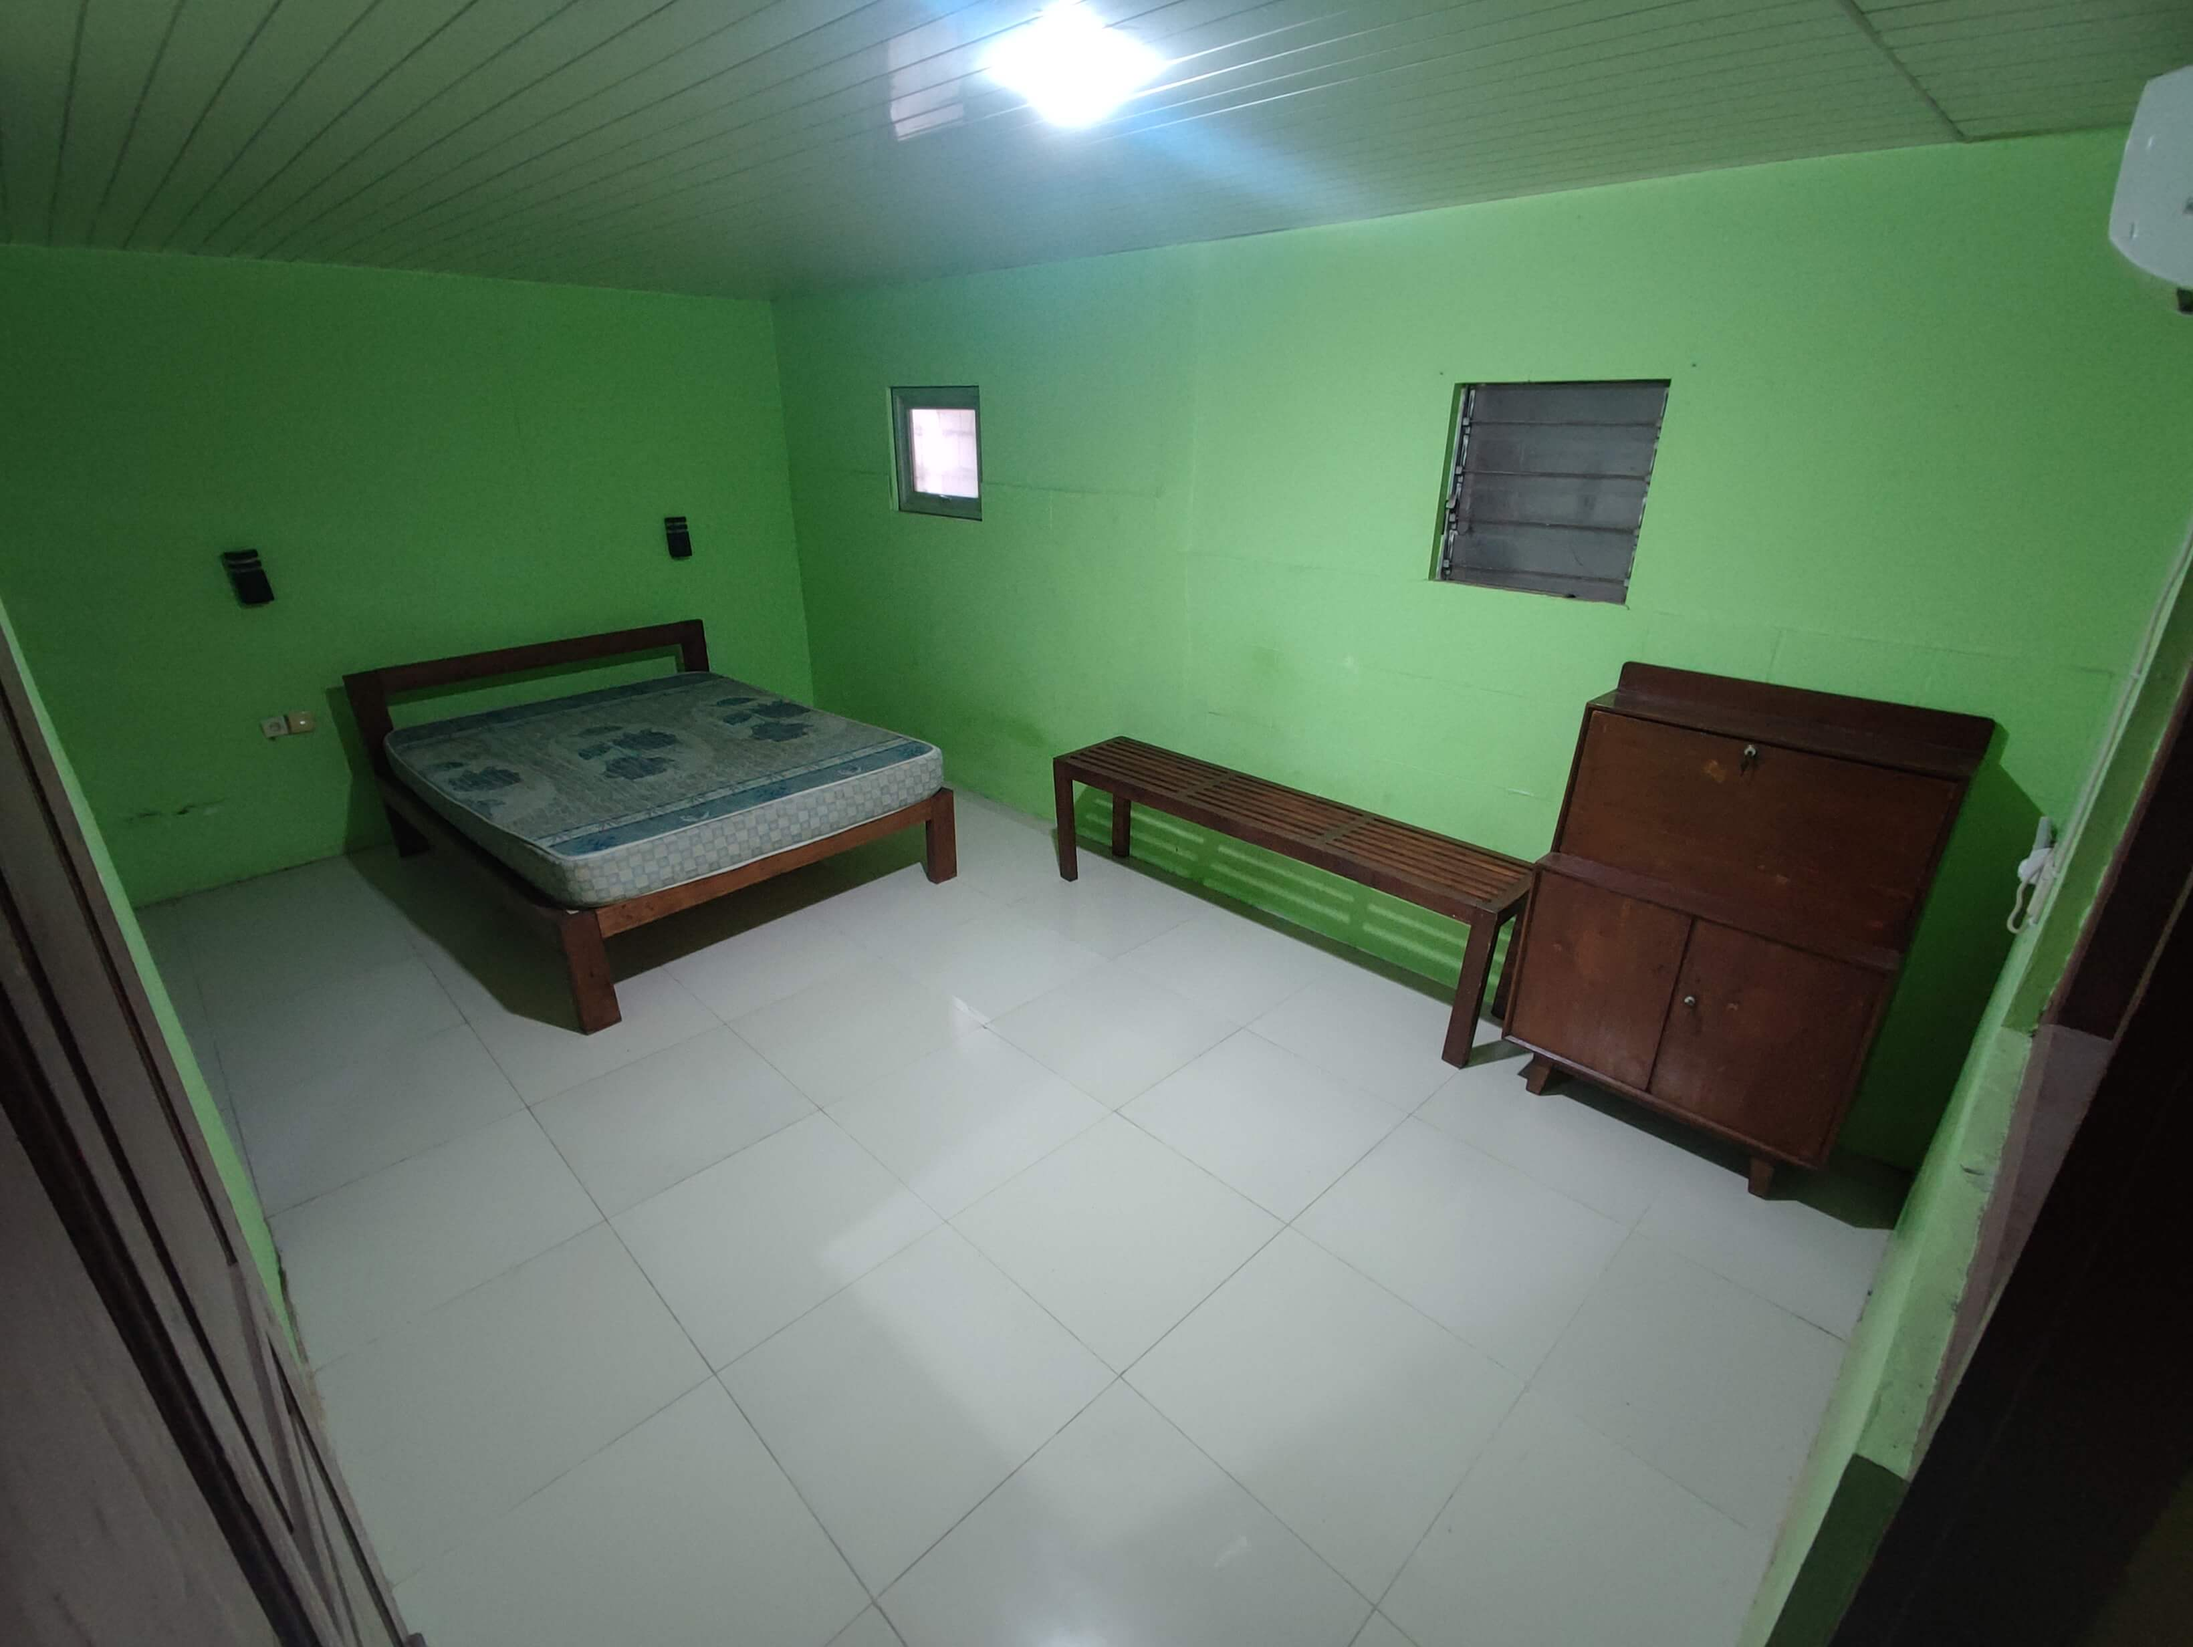
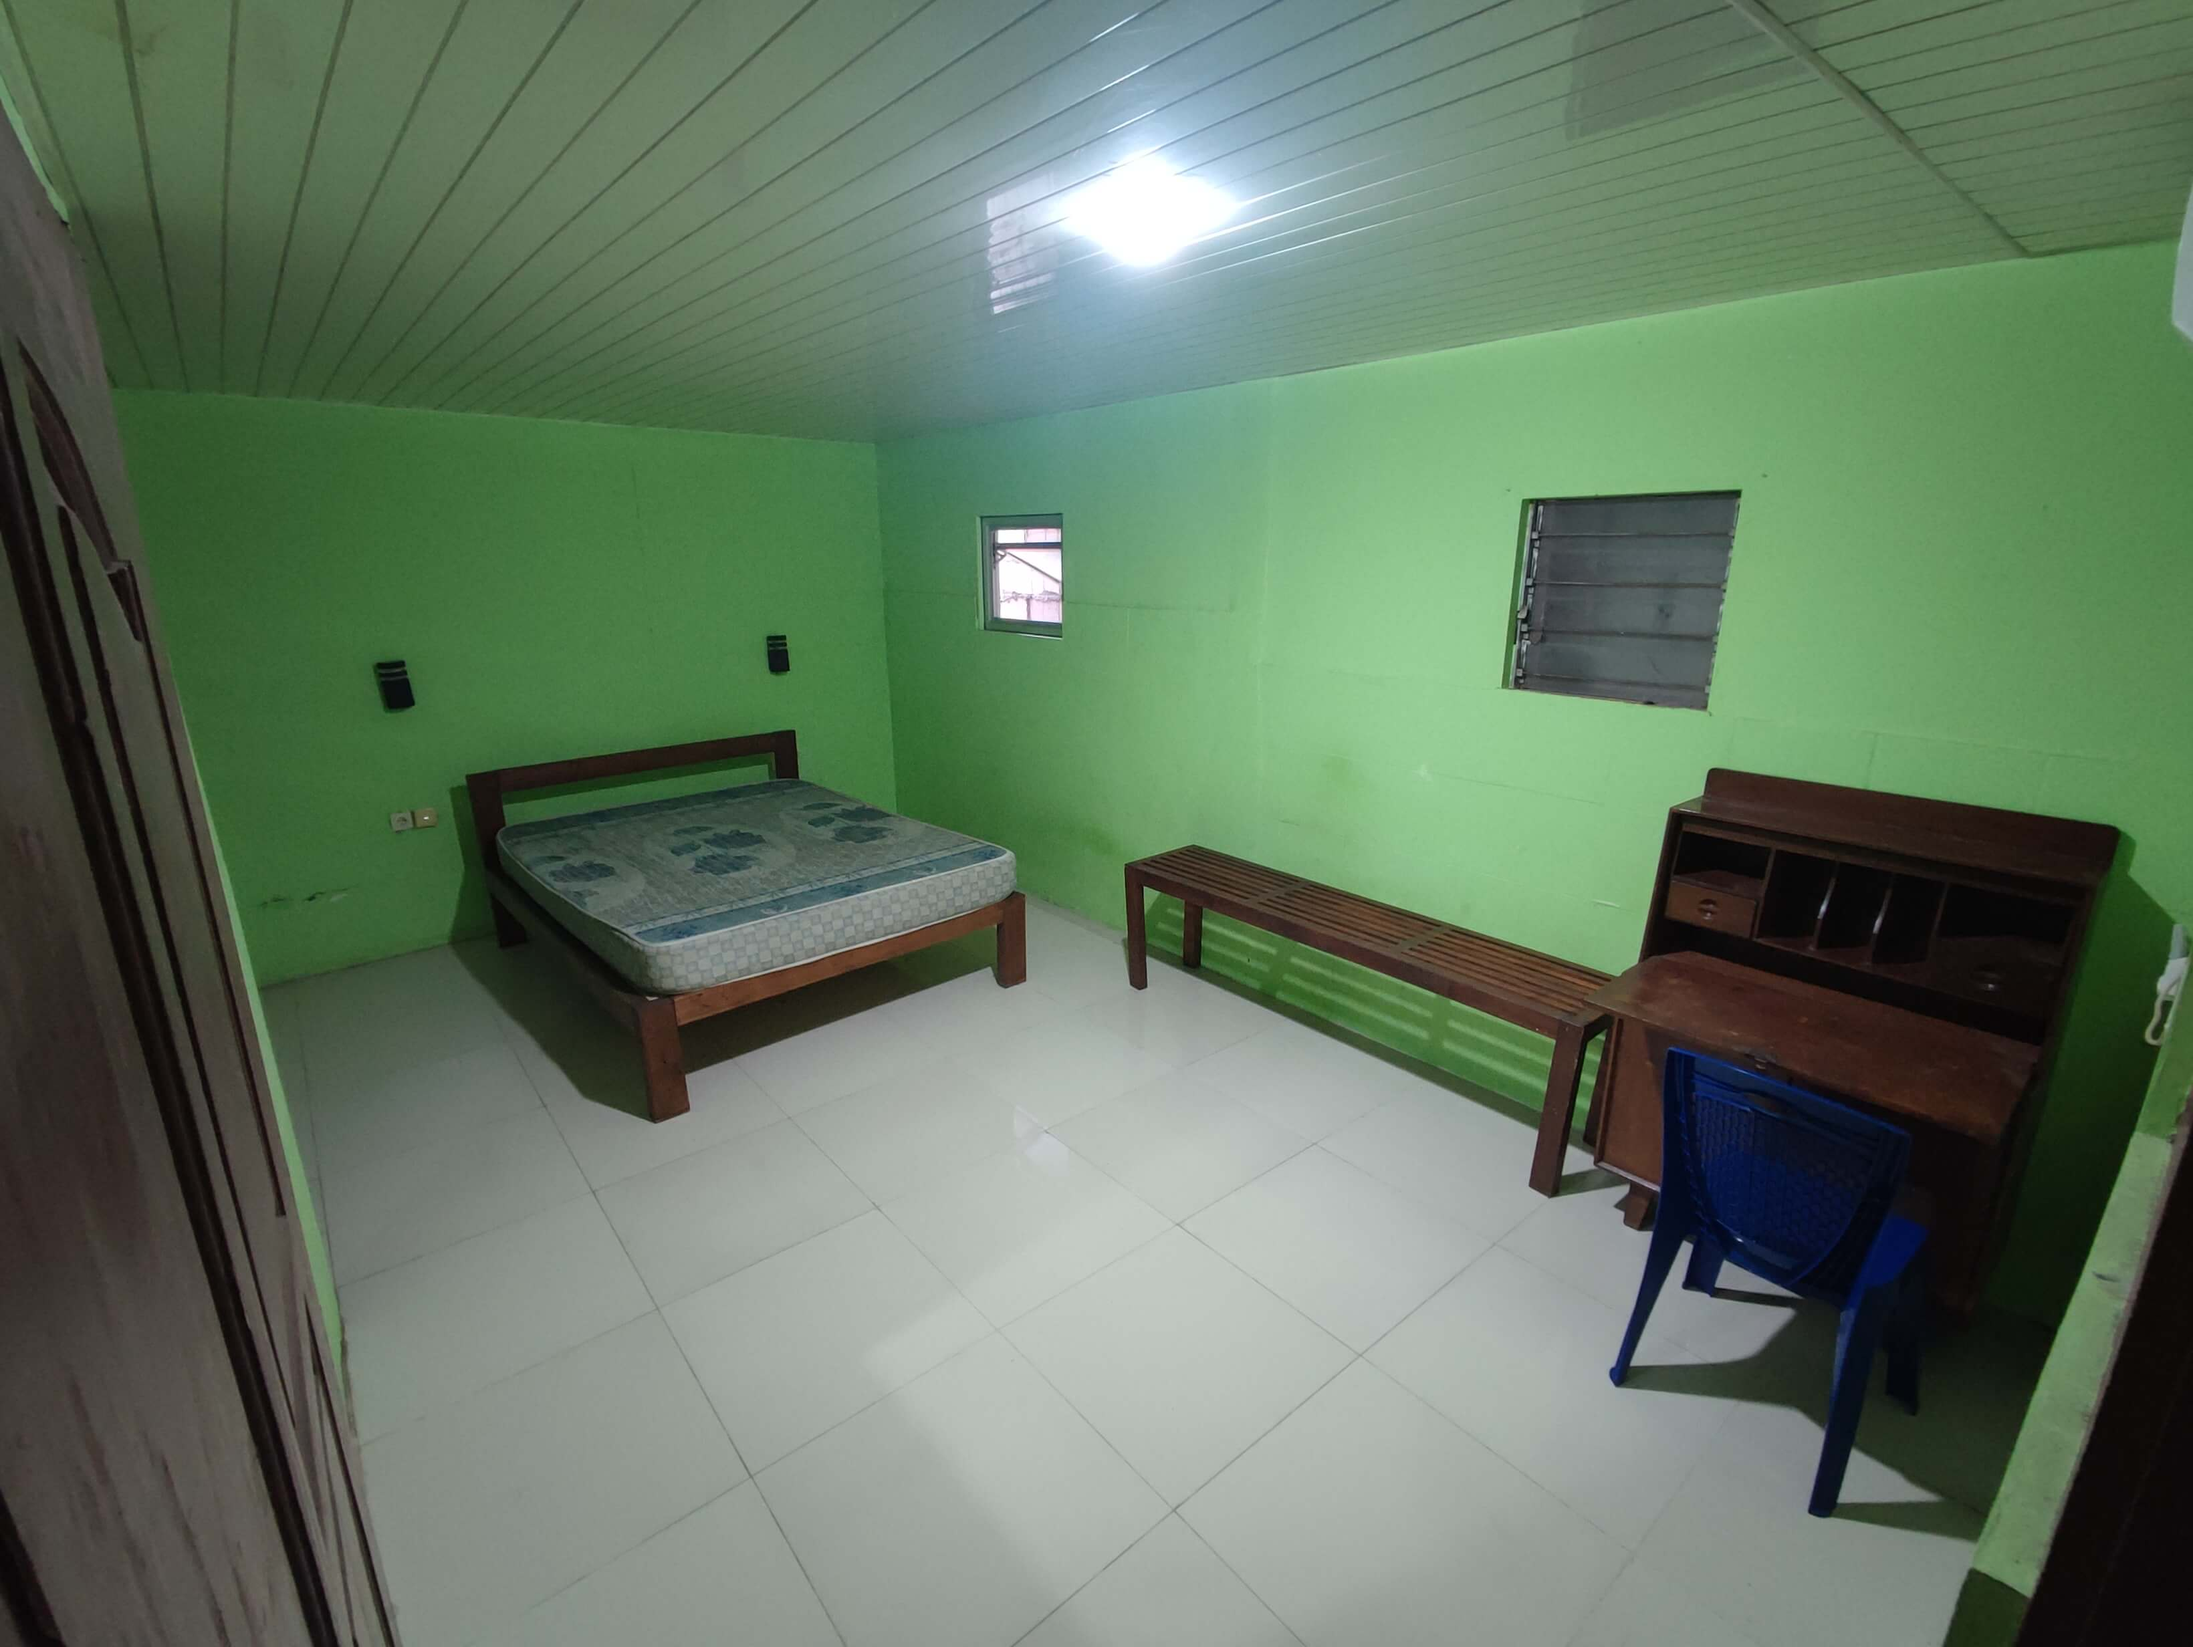
update AC 1, AC 2

diff --git a/AC/3.html b/AC/3.html
@@ -1,0 +1,49 @@
+<!DOCTYPE html>
+<html lang="en">
+
+<head>
+    <title>Kamar AC 3</title>
+    <meta charset="utf-8">
+    <meta name="viewport" content="width=device-width, initial-scale=1">
+    <link rel="stylesheet" type="text/css" href="../css/style.css">
+    <link rel="stylesheet" href="https://cdnjs.cloudflare.com/ajax/libs/font-awesome/5.15.4/css/all.min.css">
+    <meta property="og:title" content="Kamar AC 3">
+    <meta property="og:description" content="Fasilitas: WiFi, Kamar Mandi Dalam, AC 0,5 PK, Listrik Token 1300VA, Kasur, Meja, Kursi">
+    <meta property="og:image" content="https://koskepuh.category.id/AC/assets/3_exit.jpg">
+    <meta property="og:image" content="https://koskepuh.category.id/AC/assets/3_back.jpg">
+    <meta property="og:image" content="https://koskepuh.category.id/AC/assets/3_bathroom.jpg">
+    <meta property="og:image" content="https://koskepuh.category.id/AC/assets/3_entry.jpg">
+    <meta property="og:url" content="https://koskepuh.category.id/">
+    <meta property="og:type" content="website">
+</head>
+
+<body>
+    <h2>Kos Putra Kepuh 936</h2>
+    <h3>Kamar AC 3</h3>
+    <p>
+        Fasilitas :
+        <ul>
+            <li>Kamar Mandi Dalam</li>
+            <li>AC 0,5 PK</li>
+            <li>Listrik Token 1300VA</li>
+            <li>Kasur Busa Ukuran 120x200cm</li>
+            <li>Meja Kaca Besar</li>
+            <li>Kursi</li>
+            <li>Meja Kaca Pendek</li>
+        </ul>
+        Ukuran Kamar : ± 2,5 x 9 meter
+        <br><br>
+        Terakhir diperbarui : 20 November 2023
+    </p>
+    <img src="./assets/3_entry.jpg" width="100%" height="auto" max-width="800px">
+    <img src="./assets/3_exit.jpg" width="100%" height="auto" max-width="800px">
+    <img src="./assets/3_back.jpg" width="100%" height="auto" max-width="800px">
+    <img src="./assets/3_bathroom.jpg" width="100%" height="auto" max-width="800px">
+    <div class="whatsapp-float">
+        <a href="https://wa.me/6285173374180?text=Apakah%20Kamar%20AC%203%20masih%20kosong%3F" target="_blank">
+            <i class="fab fa-whatsapp"></i>
+        </a>
+    </div>
+</body>
+
+</html>

diff --git a/AC/2.html b/AC/2.html
@@ -8,10 +8,10 @@
     <link rel="stylesheet" type="text/css" href="../css/style.css">
     <link rel="stylesheet" href="https://cdnjs.cloudflare.com/ajax/libs/font-awesome/5.15.4/css/all.min.css">
     <meta property="og:title" content="Kamar AC 2">
-    <meta property="og:description" content="Fasilitas: WiFi, Kamar Mandi Dalam, AC 0,5 PK, Listrik Token 1300VA, Kasur, Meja">
-    <meta property="og:image" content="https://koskepuh.category.id/AC/assets/2_entry.jpg">
+    <meta property="og:description" content="Fasilitas: WiFi, Kamar Mandi Dalam, AC 0,5 PK, Listrik Token 1300VA, Kasur, Meja, Kursi">
     <meta property="og:image" content="https://koskepuh.category.id/AC/assets/2_bed.jpg">
     <meta property="og:image" content="https://koskepuh.category.id/AC/assets/2_bathroom.jpg">
+    <meta property="og:image" content="https://koskepuh.category.id/AC/assets/2_entry.jpg">
     <meta property="og:url" content="https://koskepuh.category.id/">
     <meta property="og:type" content="website">
 </head>
@@ -28,10 +28,11 @@
             <li>Listrik Token 1300VA</li>
             <li>Kasur Busa Ukuran 160x200cm</li>
             <li>Meja</li>
+            <li>Kursi</li>
         </ul>
         Ukuran Kamar : ± 3,8 x 5,2 meter
         <br><br>
-        Terakhir diperbarui : 11 November 2023
+        Terakhir diperbarui : 20 November 2023
     </p>
     <img src="./assets/2_entry.jpg" width="100%" height="auto" max-width="800px">
     <img src="./assets/2_bed.jpg" width="100%" height="auto" max-width="800px">
